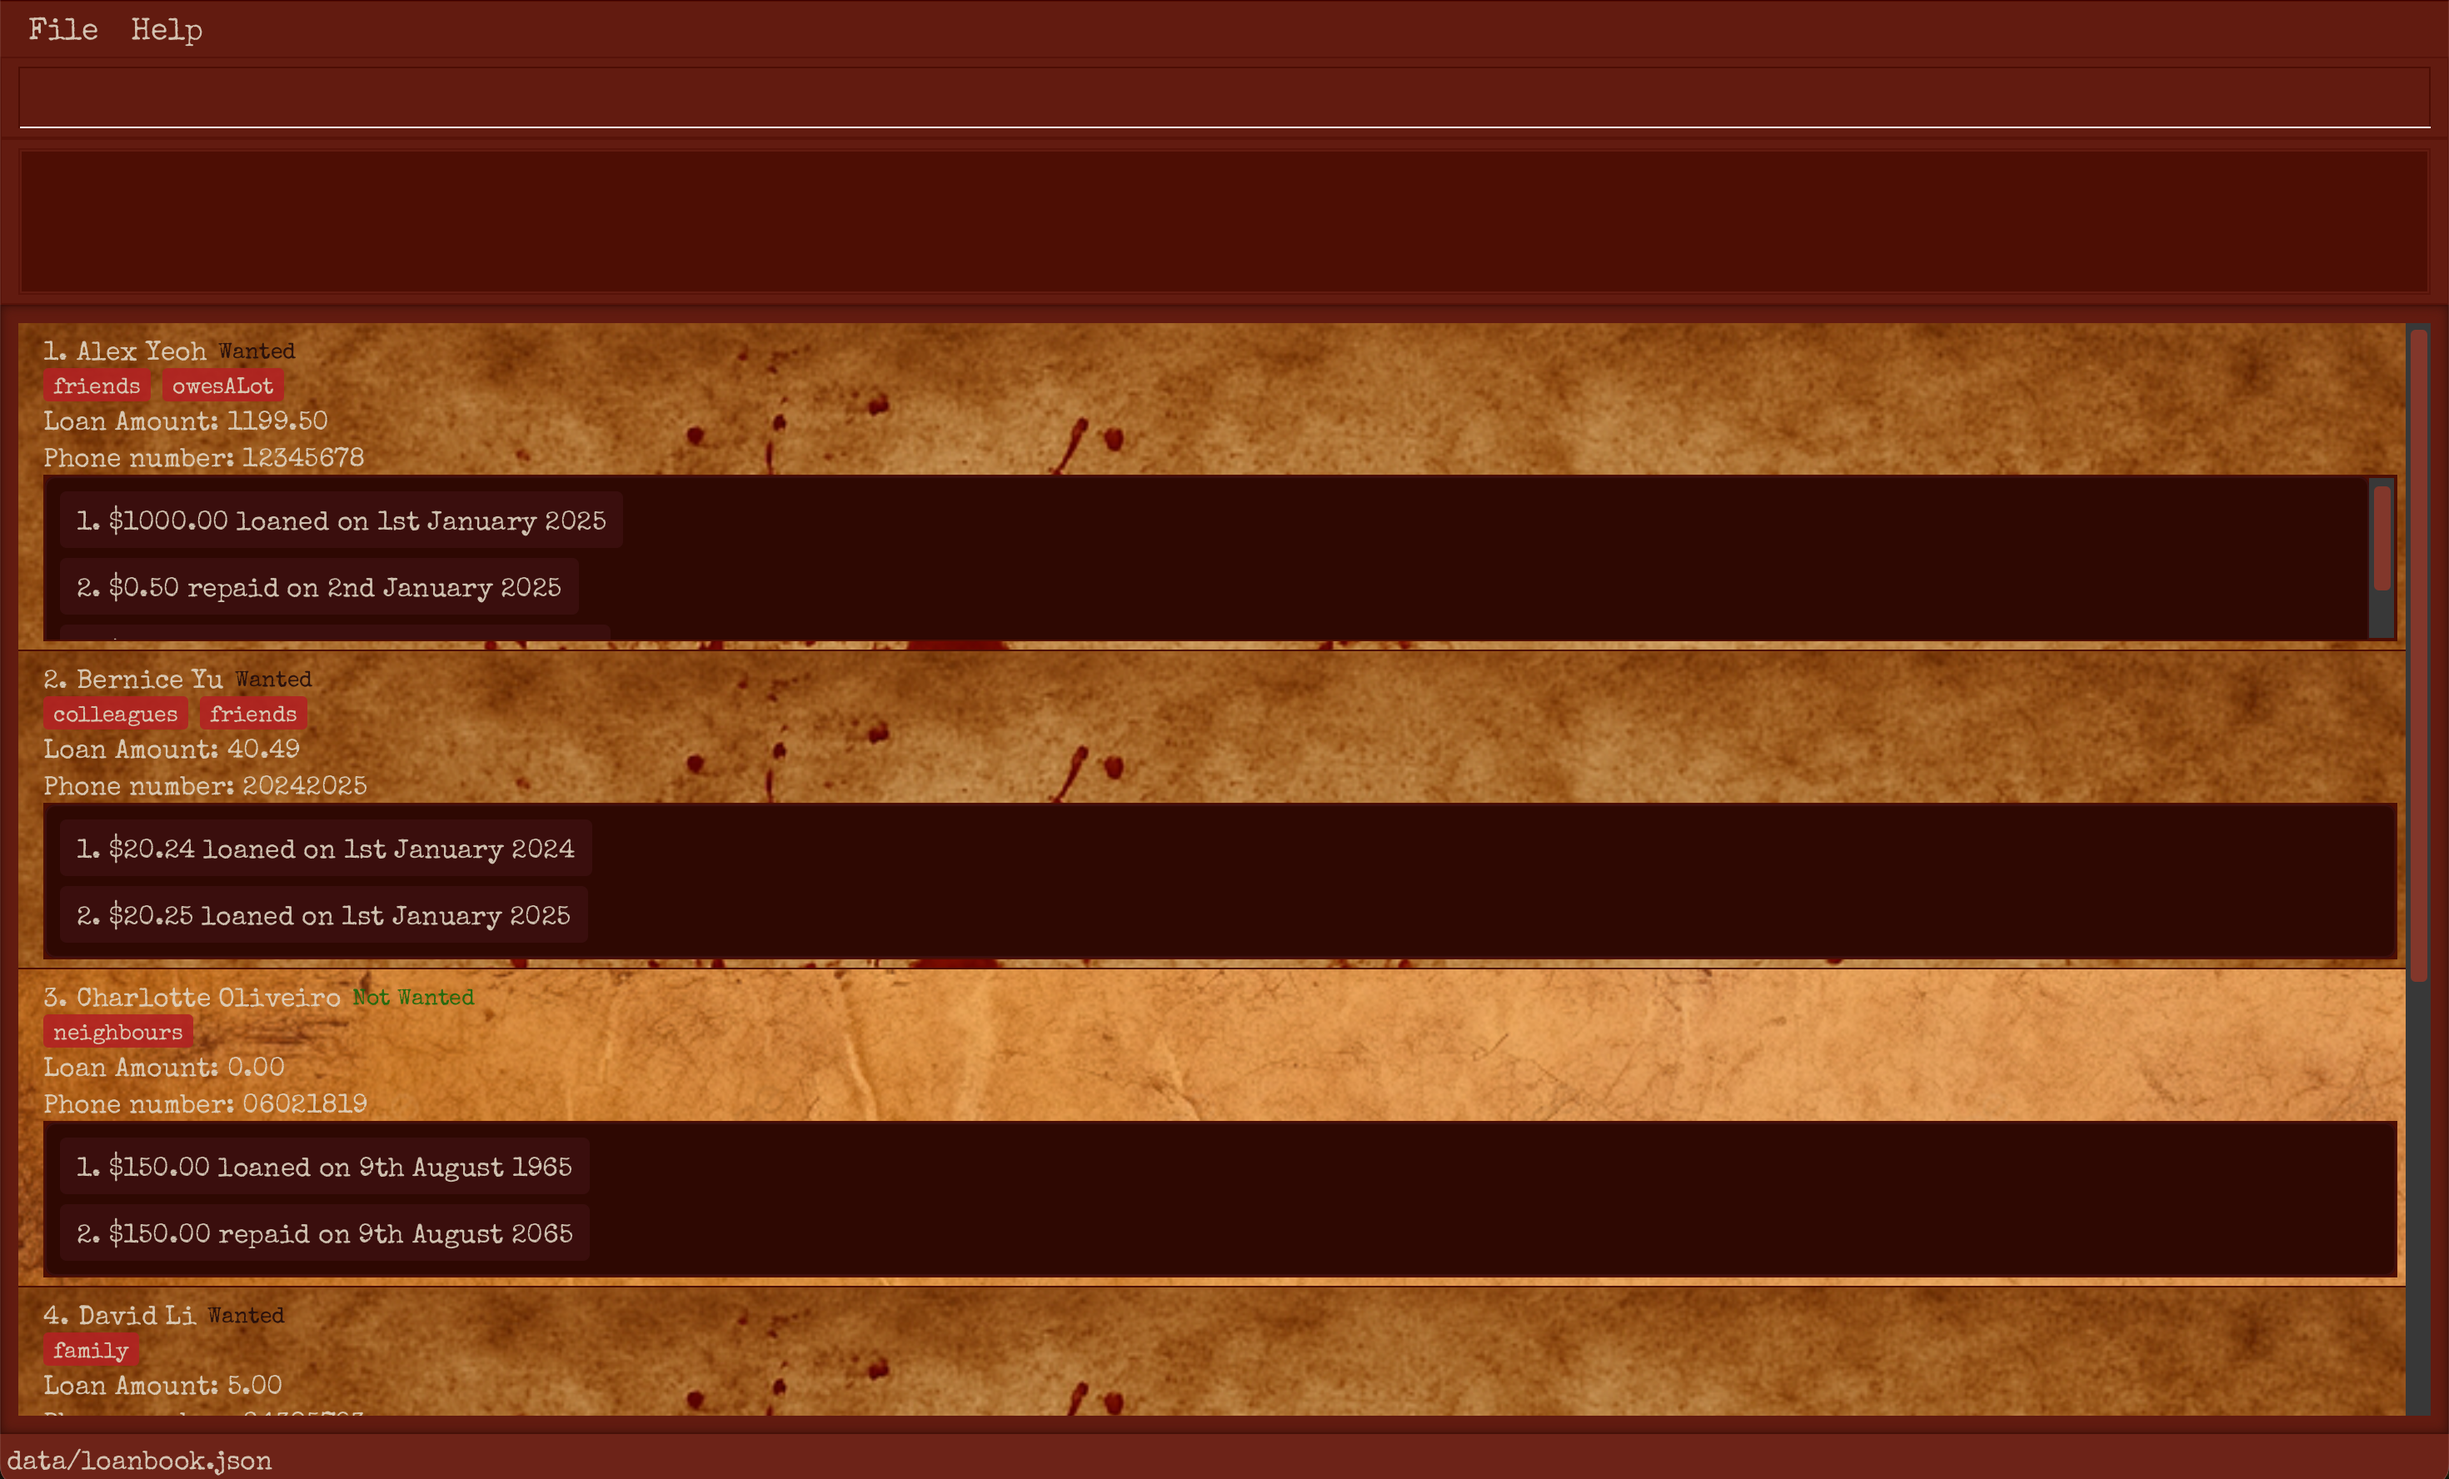
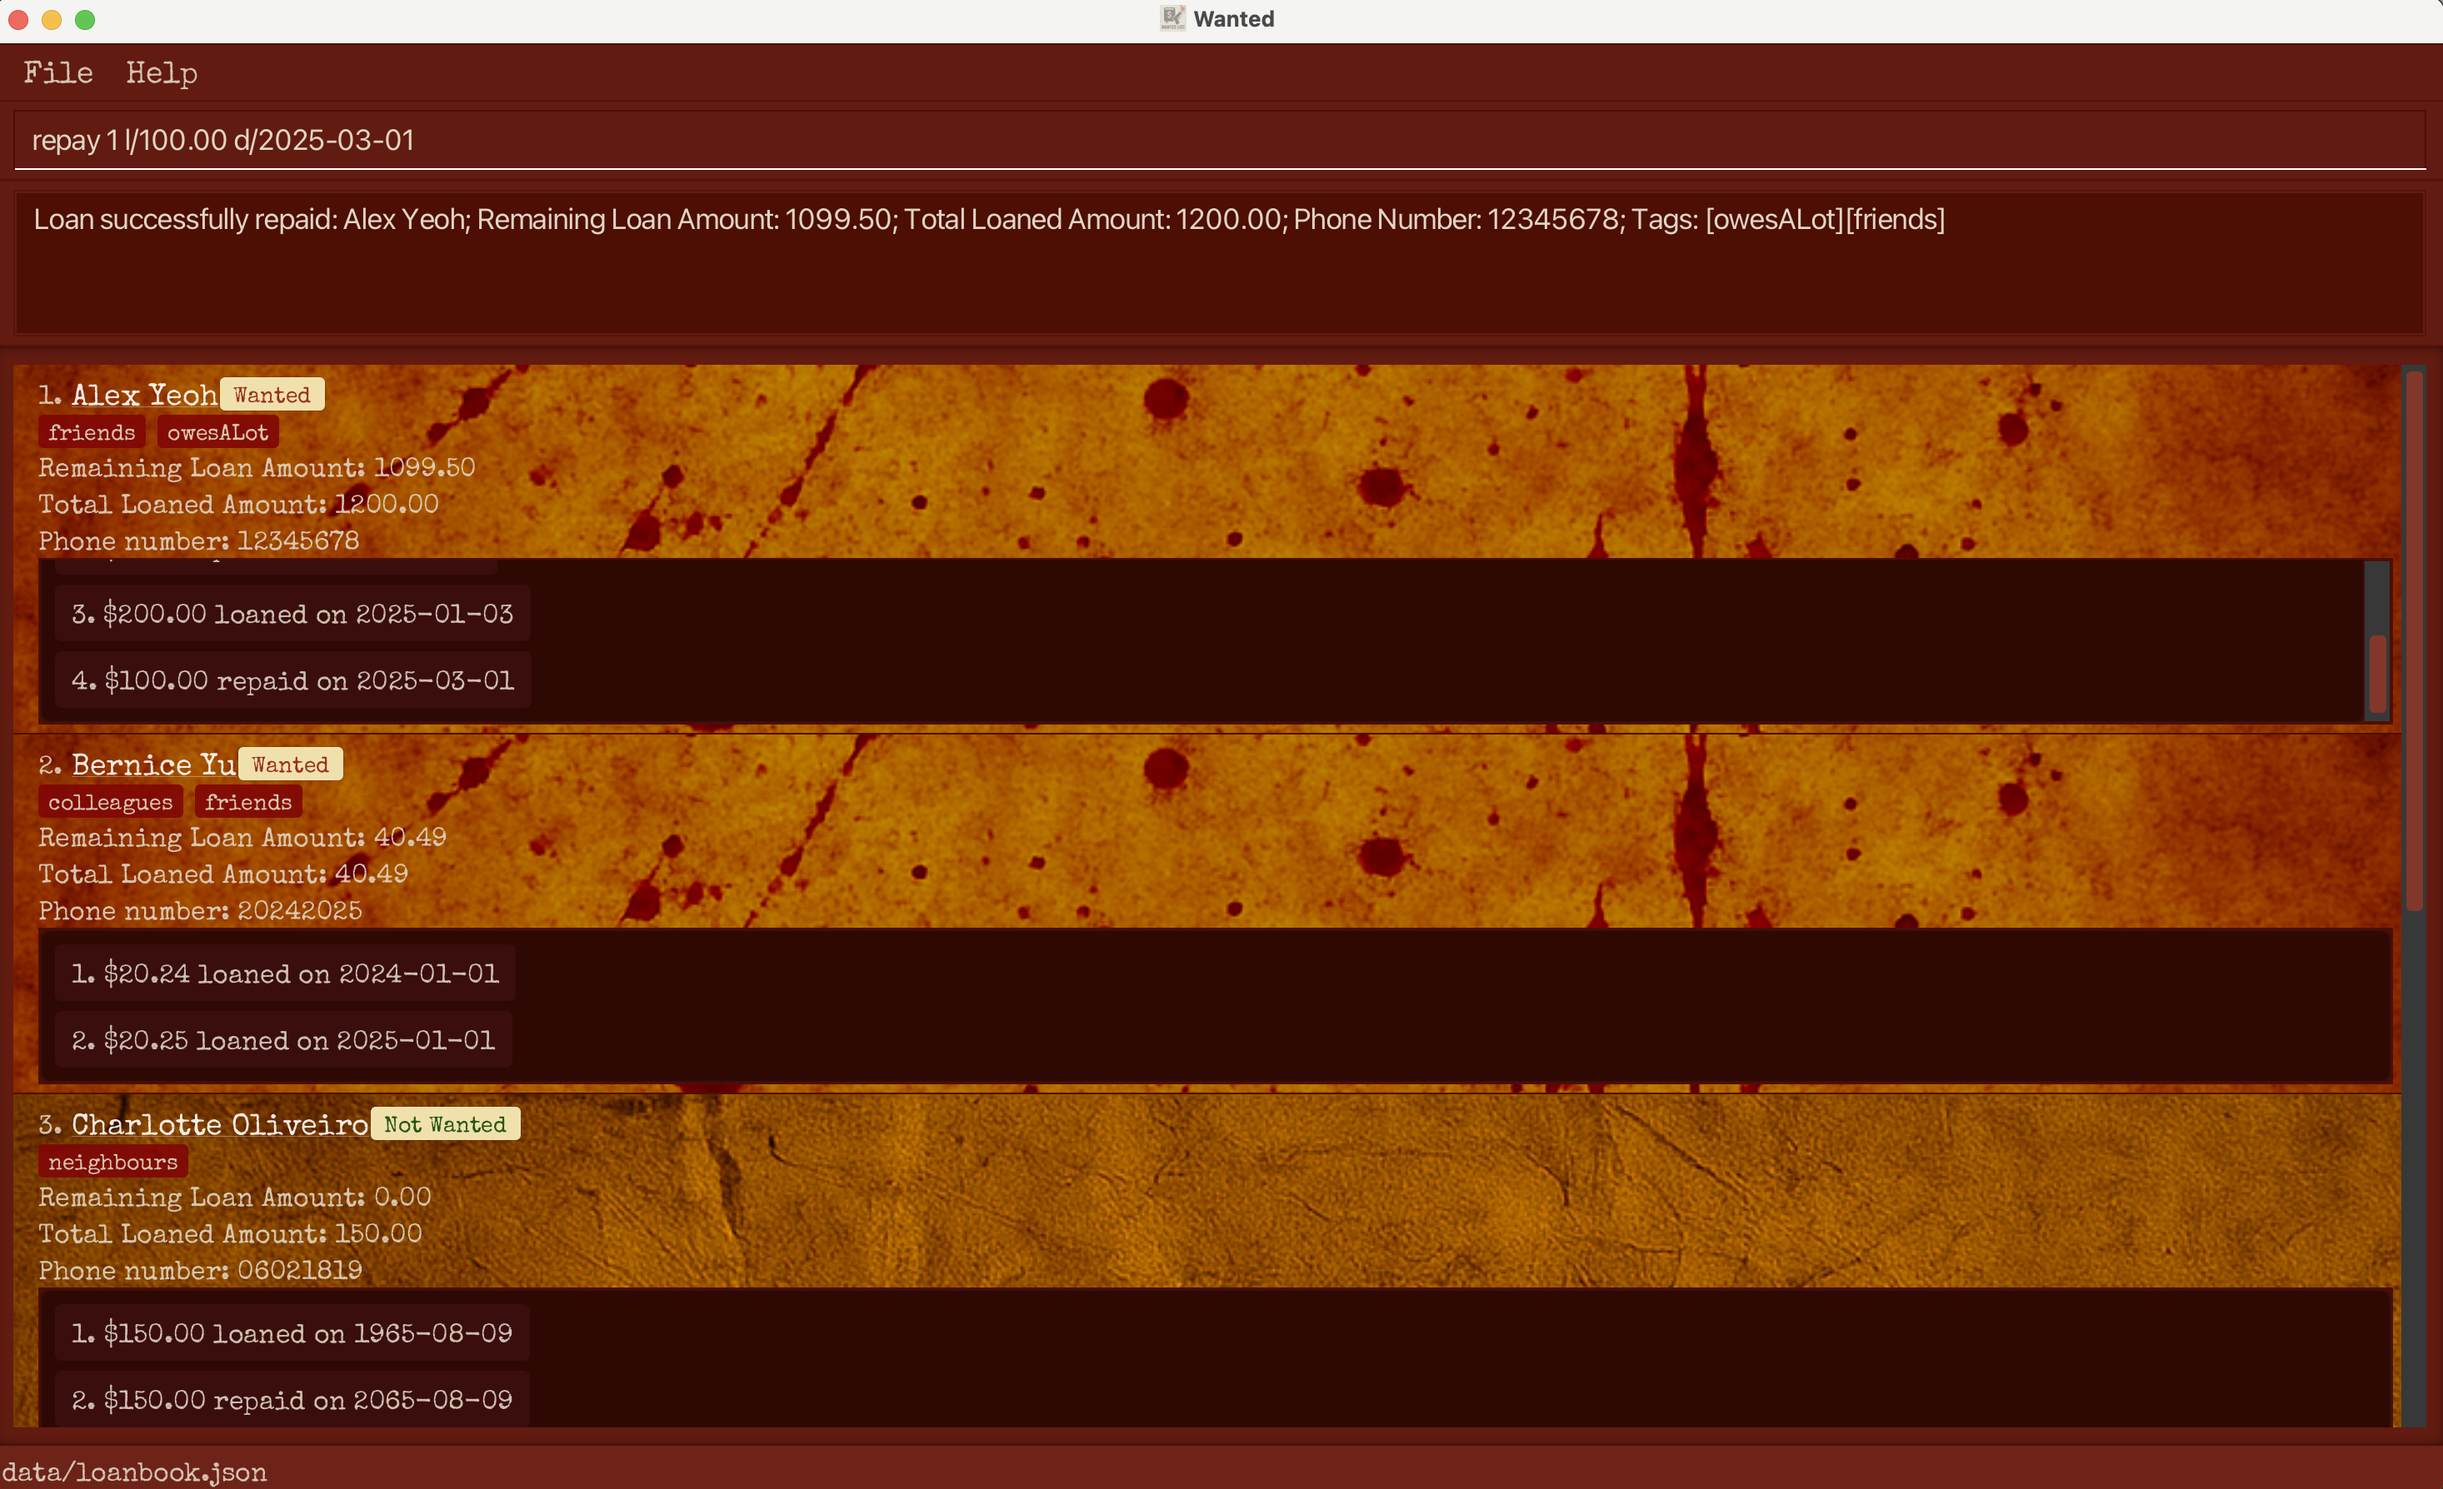
update UG

diff --git a/docs/UserGuide.md b/docs/UserGuide.md
@@ -59,7 +59,7 @@ With Wanted, you can
 1. Copy the file to the folder you want to use as the _home folder_ for your AddressBook.
 
 1. Open a command terminal, `cd` into the folder you put the jar file in, and use the `java -jar wanted.jar` command to run the application.<br>
-   A GUI similar to the below should appear in a few seconds. Note how the app contains some sample data.<br>
+   A GUI similar to the below should appear in a few seconds. Note how the app contains some sample data.<br><br>
    ![Ui](images/Ui.png)
 
 1. Type the command in the command box and press Enter to execute it. e.g. typing `help` and pressing Enter will open the help window.<br>
@@ -93,6 +93,55 @@ Use the repay command when the loanee’s entry is visible on the list.
 ___How do I find an entry that I want to modify?___<br>
 If you remember the loanee’s name, use the search command to find the loan. Otherwise, use the list command to sort by name
 or the sort command to sort the list by total amount owed.
+
+--------------------------------------------------------------------------------------------------------------------
+## User Interface
+
+#### Overview
+
+![Ui Overview](images/UiOverview.png)
+
+The GUI of the Wanted app consists of three main components: **Command Box**, **Message Display**, and **Wanted List**.
+
+* **Command Box**: This is where you type your commands.
+
+* **Message Display**: When you execute a command (by typing and pressing Enter), the result will appear here.  
+  This may include confirmation messages for successful commands or error messages if the input is invalid.
+
+* **Wanted List**: This displays a list of **entries** currently stored in the app.  
+  If the list exceeds the height of the screen, a scrollbar on the right allows you to scroll through it.
+
+#### Entries
+
+![Ui Entry](images/UiEntry.png)
+
+Each **entry** represents a person and displays their information along with their transaction history.  
+An entry contains the following components:
+
+* **Name**: Displays the name of the person. The number to the left indicates the index of the entry.
+
+* **Wanted badge**: Indicates whether the person has fully repaid their loan.  
+  It shows `Wanted` if any amount is still unpaid, and `Not Wanted` otherwise.
+
+* **Tags**: Displays a list of tags associated with the person.
+
+* **Information bar**: Shows key details about the person, including Remaining Loan Amount, Total Loaned Amount, and phone number.
+    * **Remaining Loan Amount** refers to the total amount the person still owes across all transactions.
+
+    * **Total Loaned Amount** refers to the total sum loaned to the person across all transactions.
+
+* **Transaction history**: Lists all transactions associated with the person.  
+  Each transaction appears in one of the following formats:
+    * `[amount] loaned on [date]` — Indicates that the specified amount was loaned on the given date.  
+      Example: `$100.00 loaned on 2025-01-01`
+
+    * `[amount] repaid on [date]` — Indicates that the specified amount was repaid on the given date.  
+      Example: `$50.00 repaid on 2025-02-01`
+
+  The number to the left of each transaction indicates its index within the transaction history.  
+  If the transaction list exceeds the height of the display area, the most recent transactions (those with higher indices) are shown by default.  
+  You can scroll upward using the scrollbar on the right to view older transactions.
+
 
 --------------------------------------------------------------------------------------------------------------------
 
